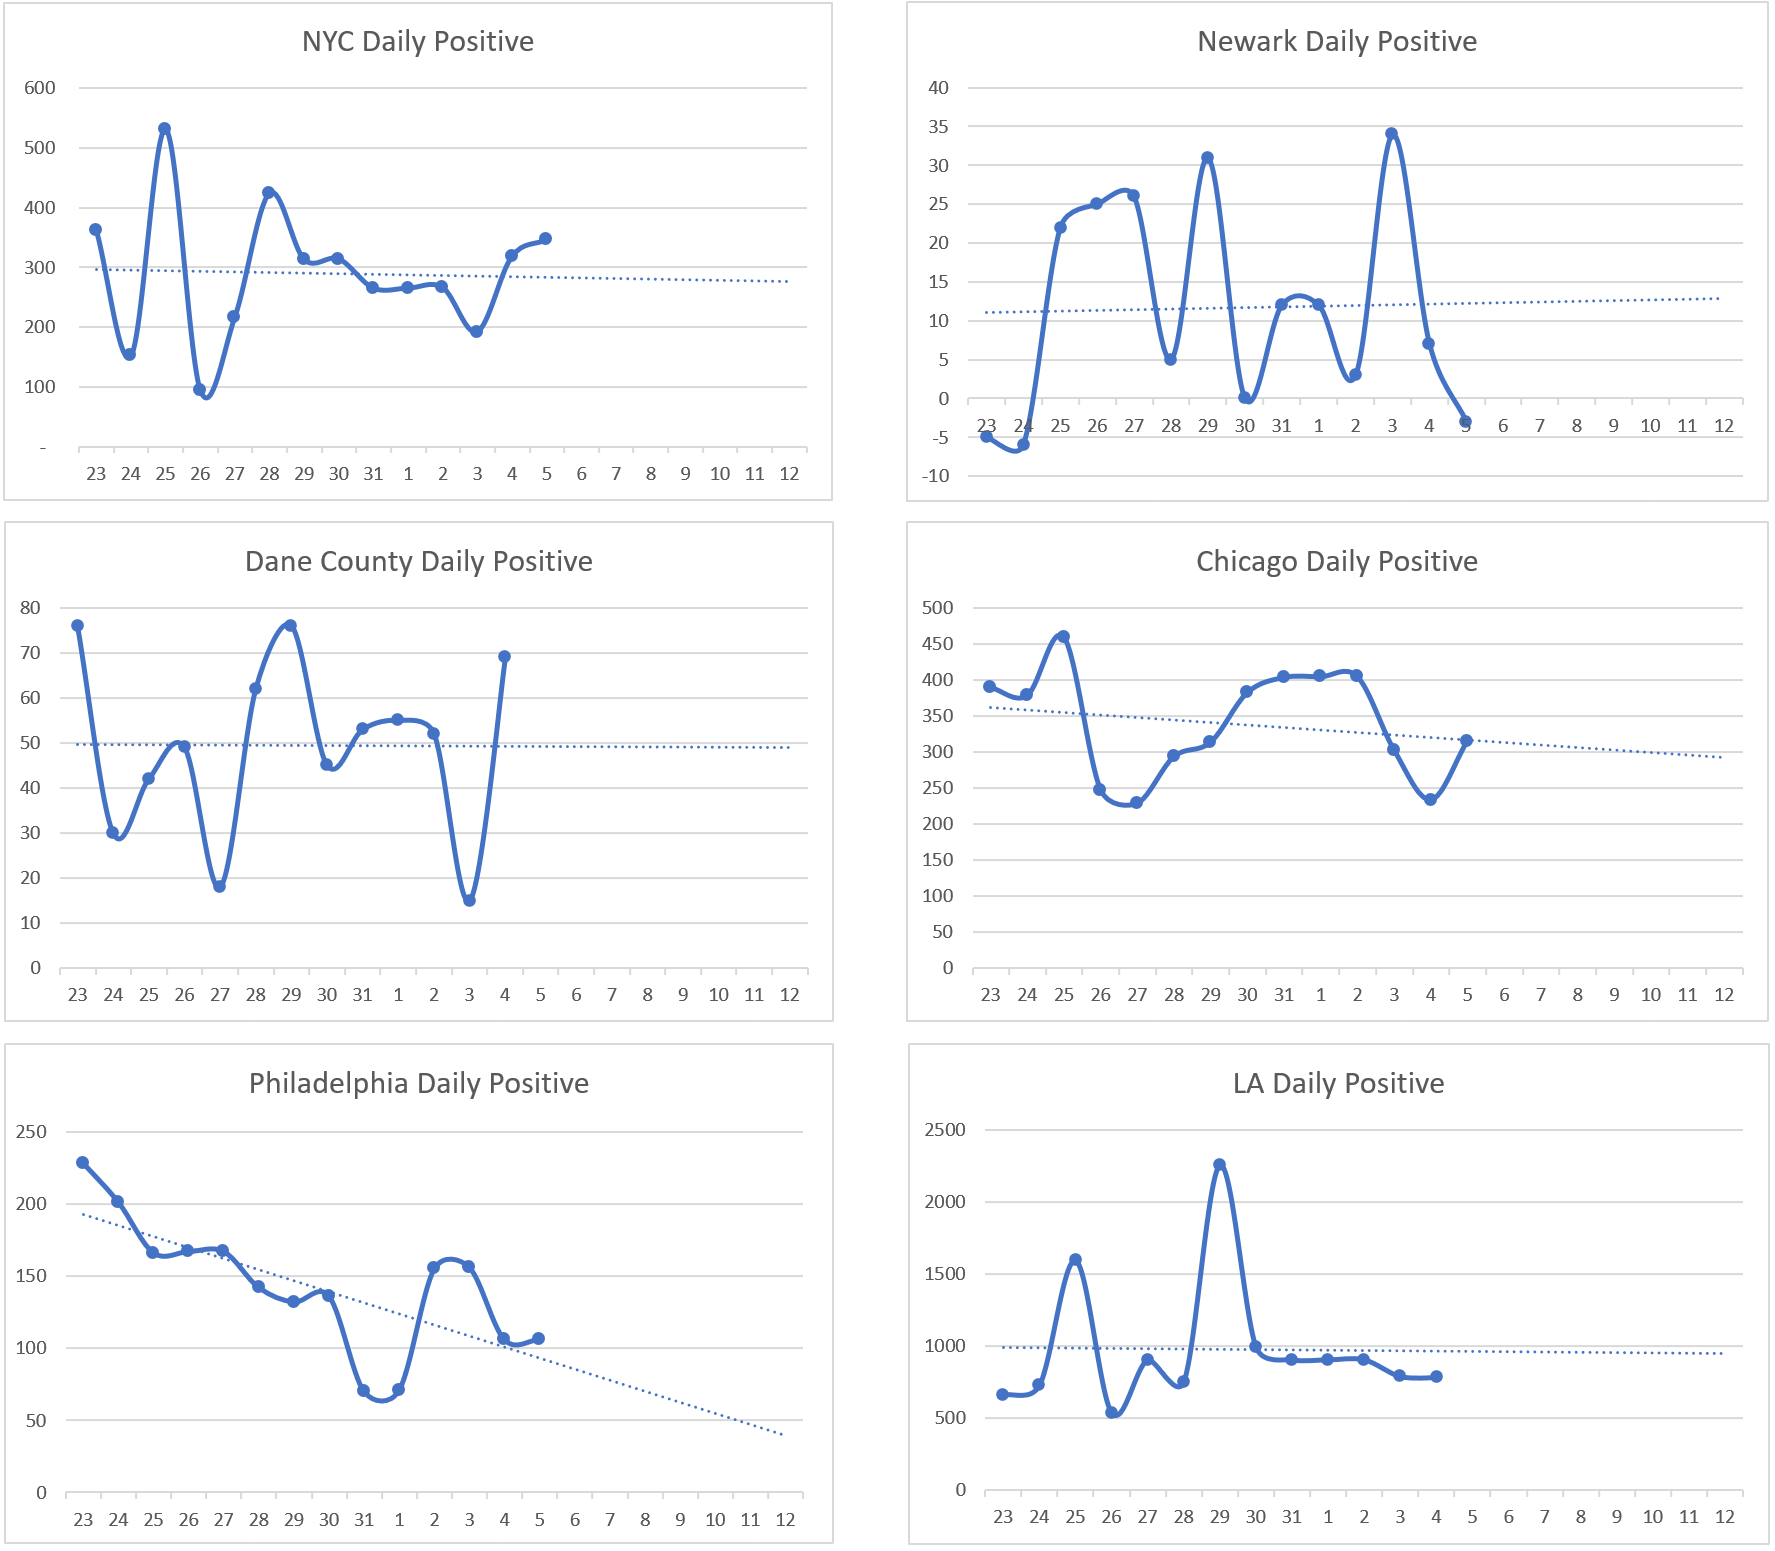
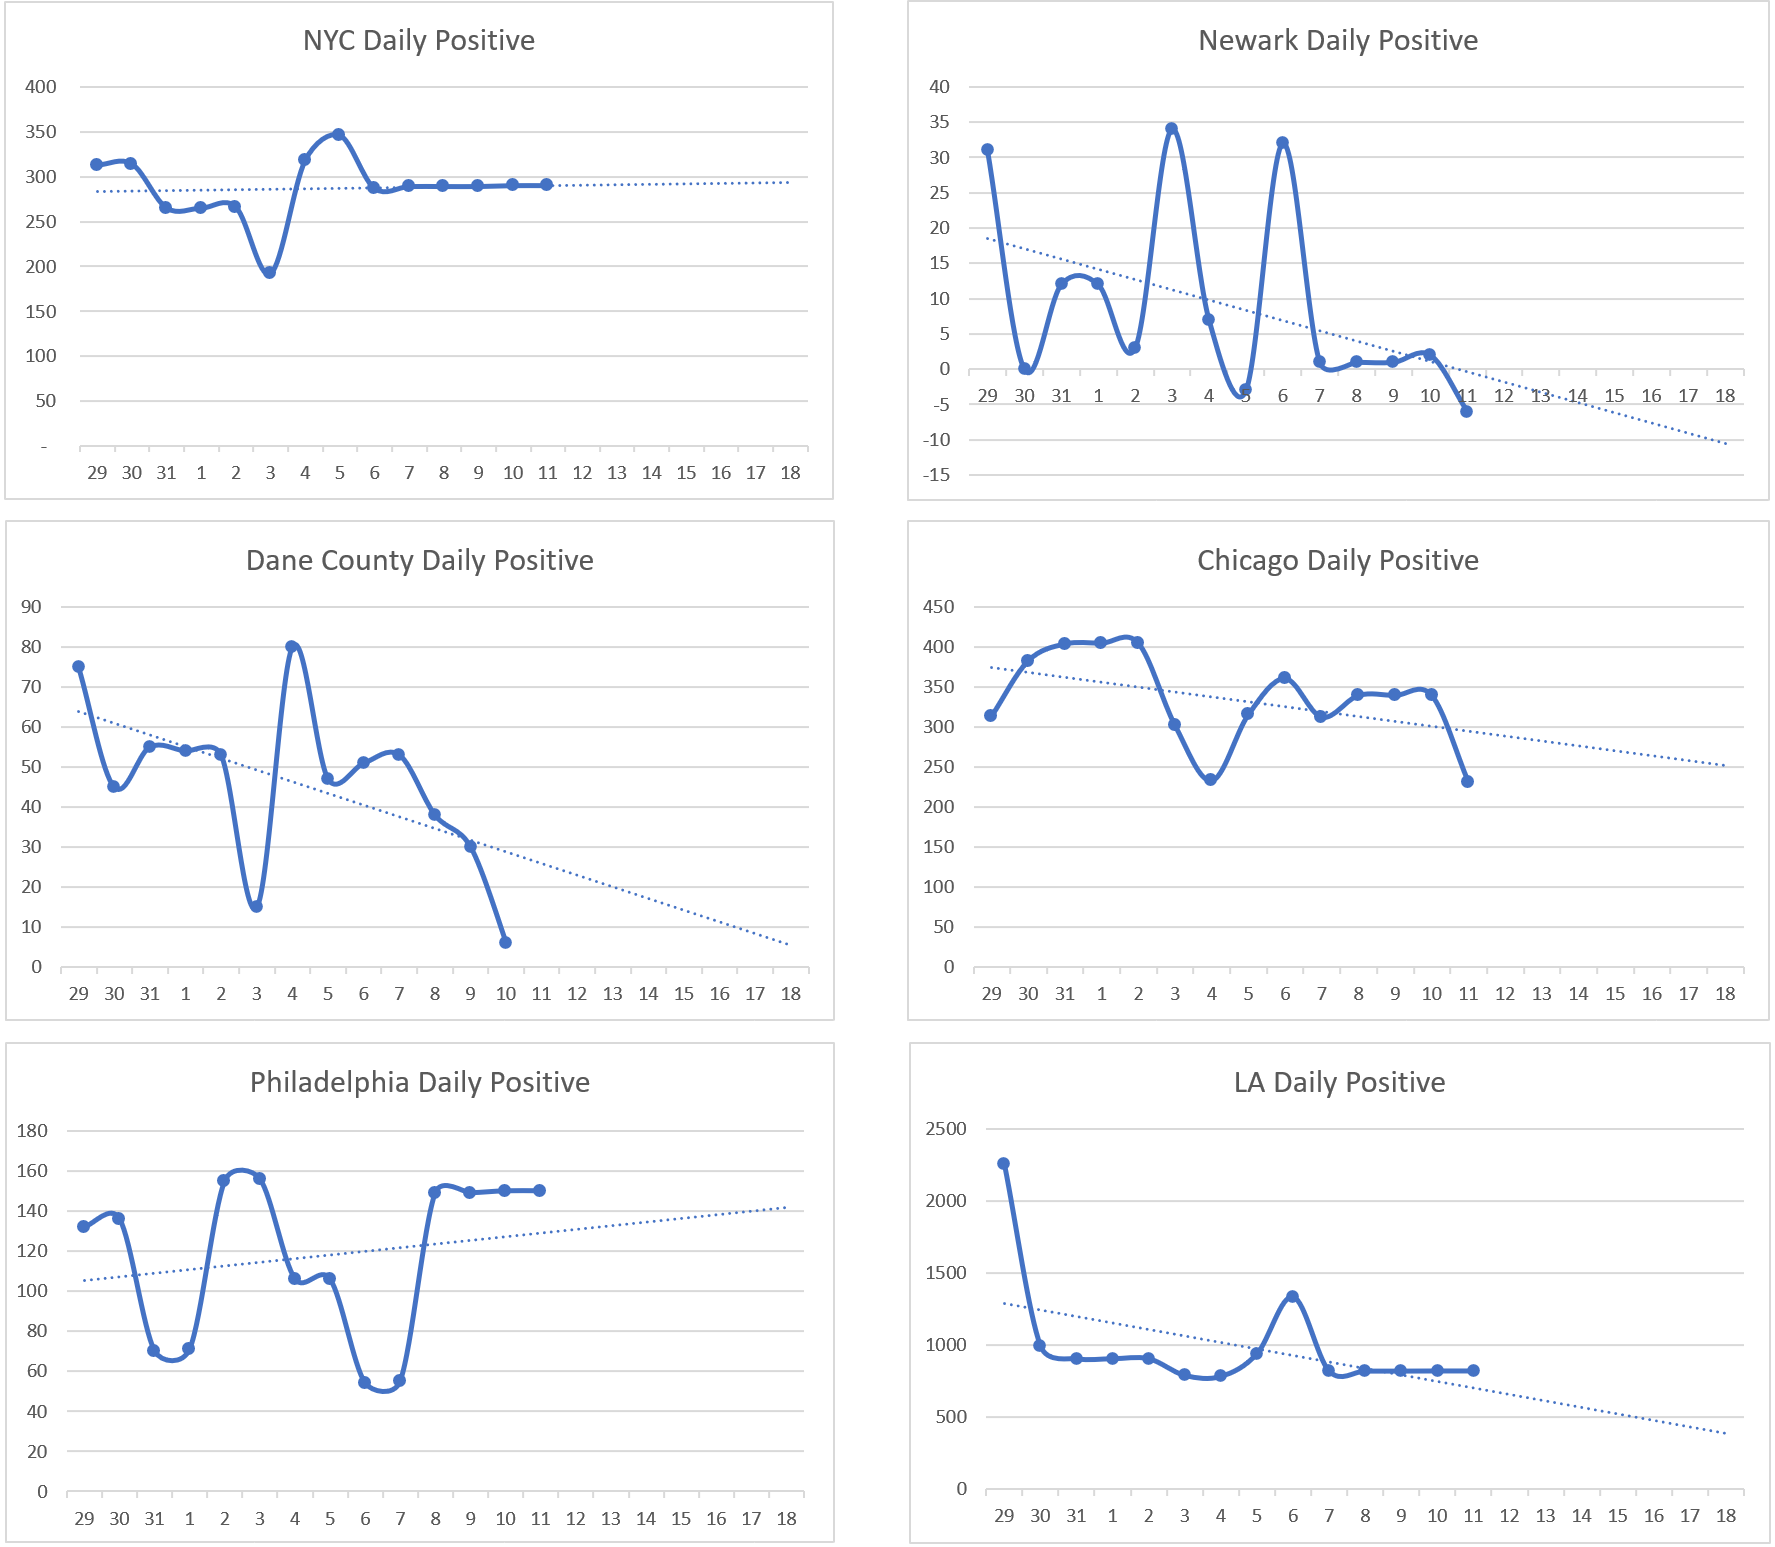
update 8/11 status

diff --git a/index.html b/index.html
@@ -19,7 +19,7 @@
 
 <body class="container-fluid">
 	<h1> CoronaV for Friends</h1>
-	<h2> Data updated at Aug 05 2020 CST 17:40</h2>
+	<h2> Data updated at Aug 11 2020 EST 21:45</h2>
 	<hr>
 	<main>
 		<div class="row">
